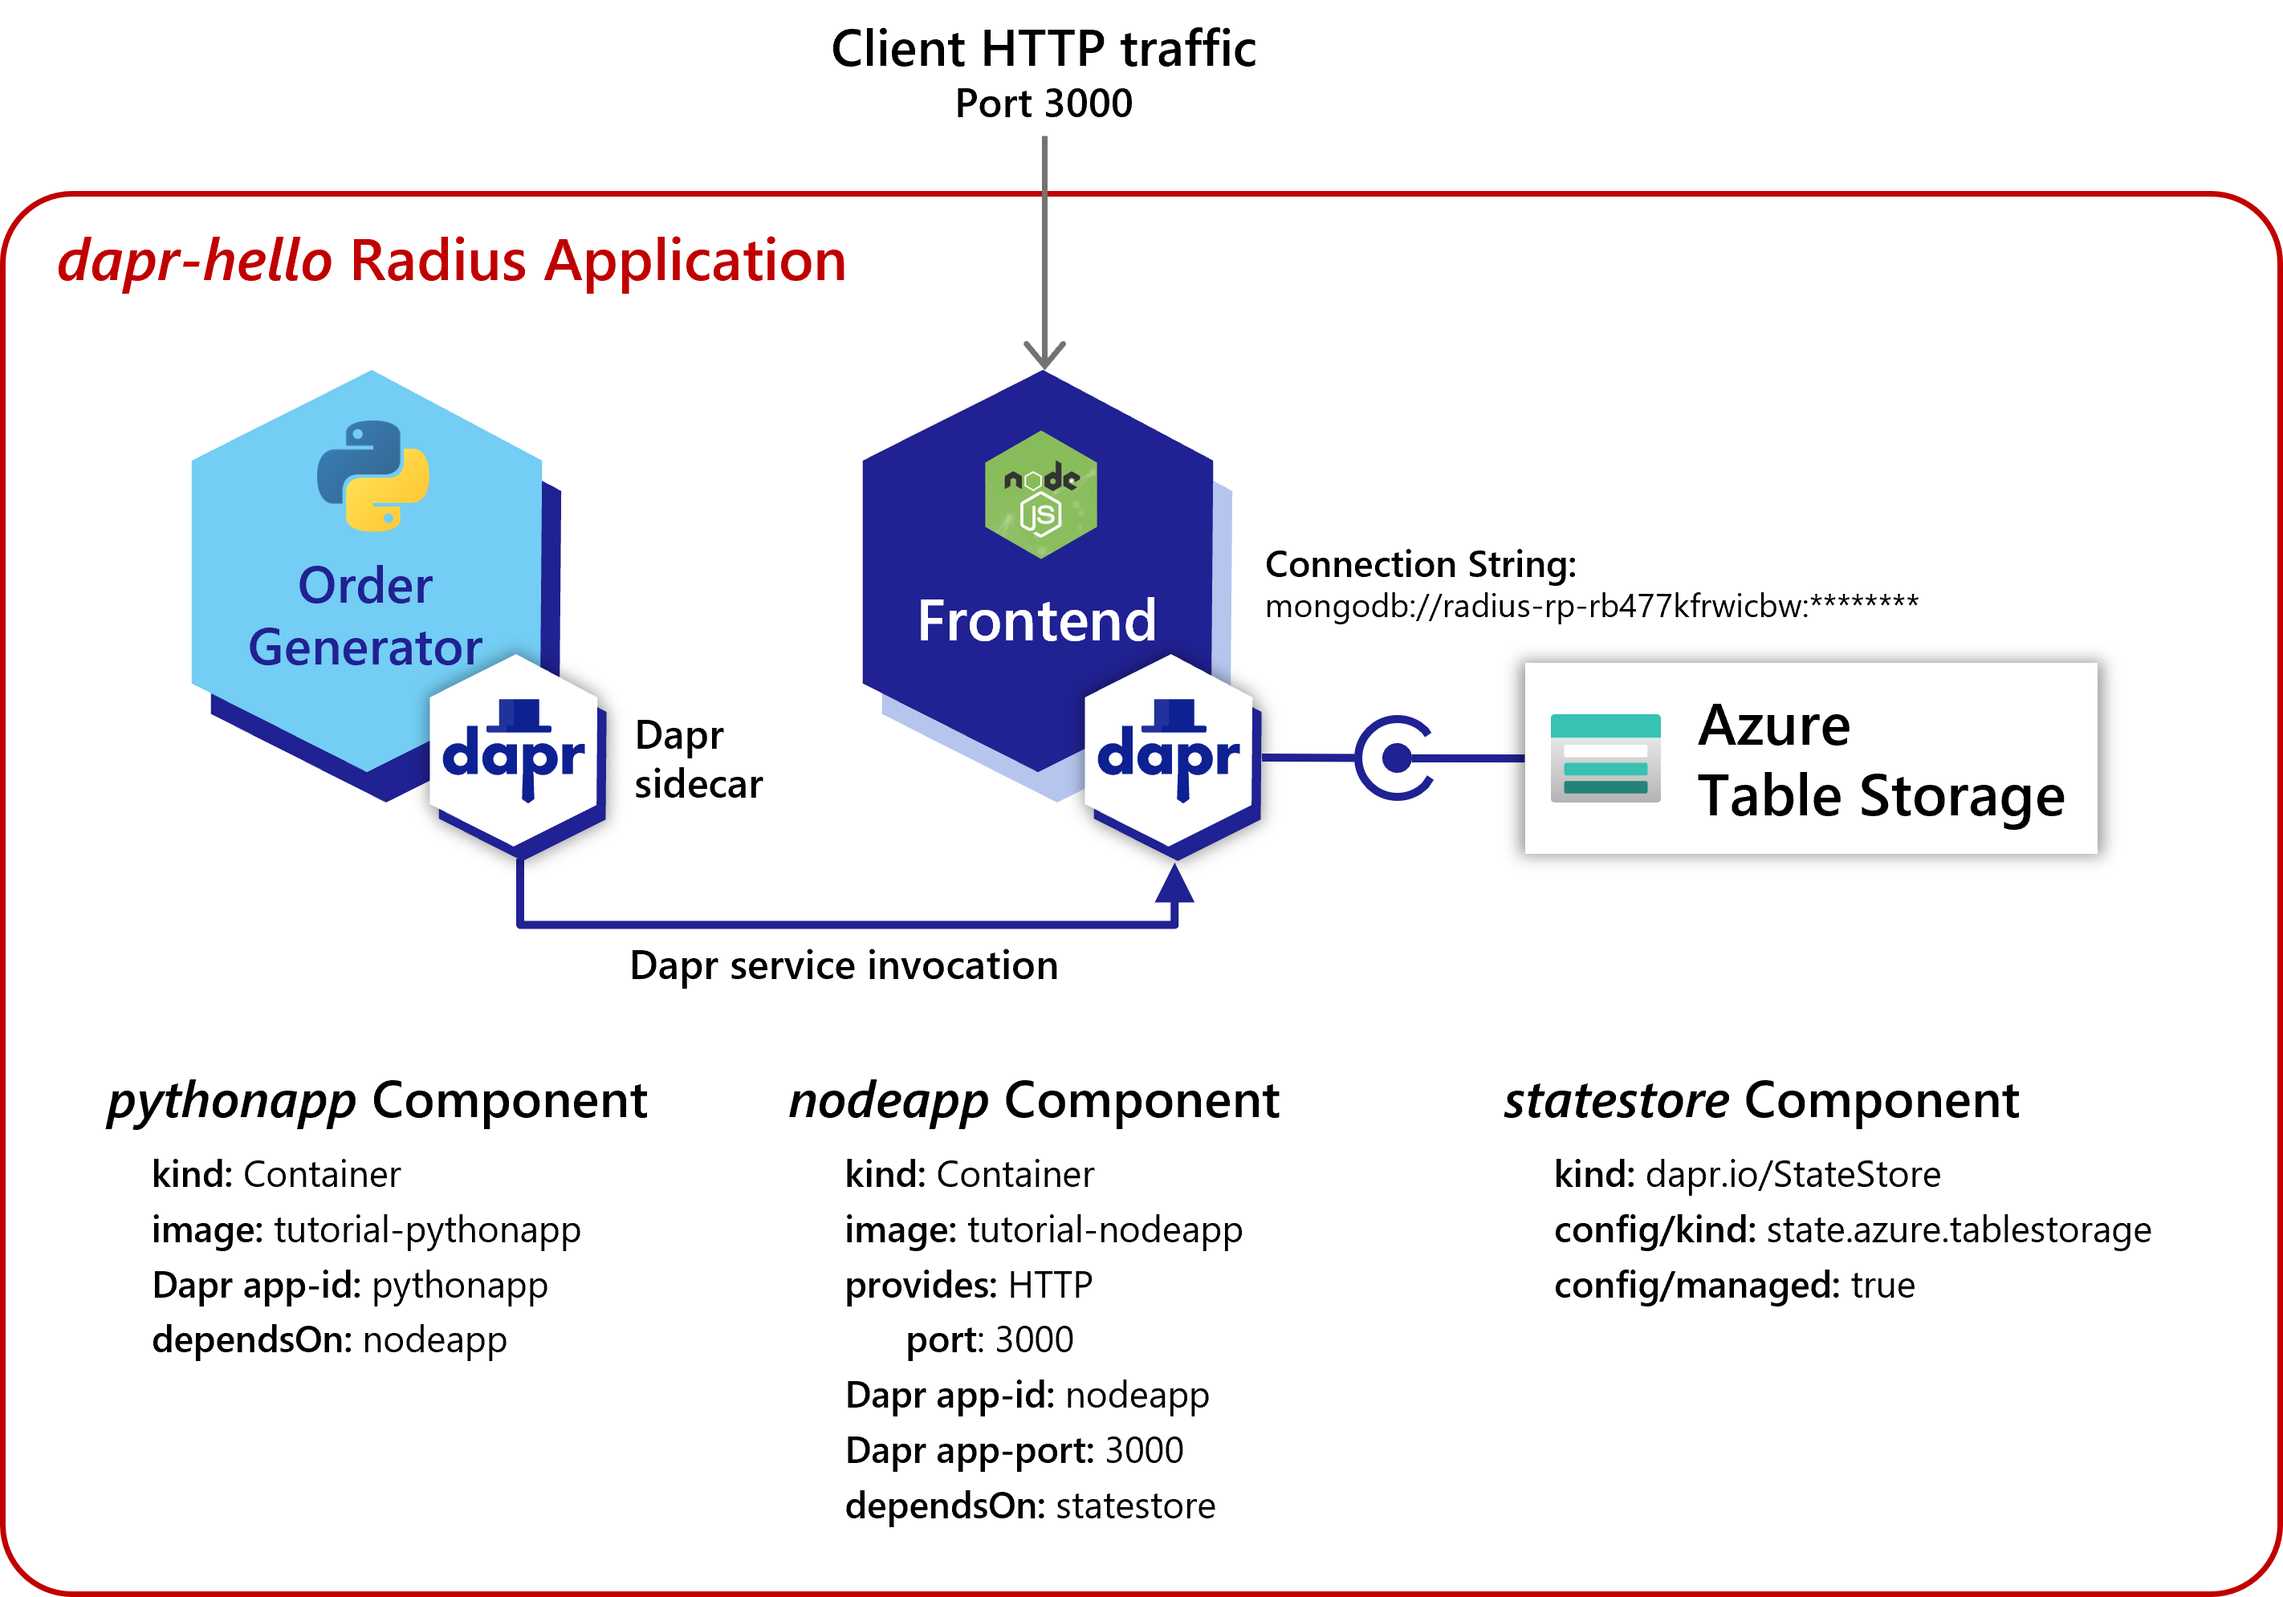
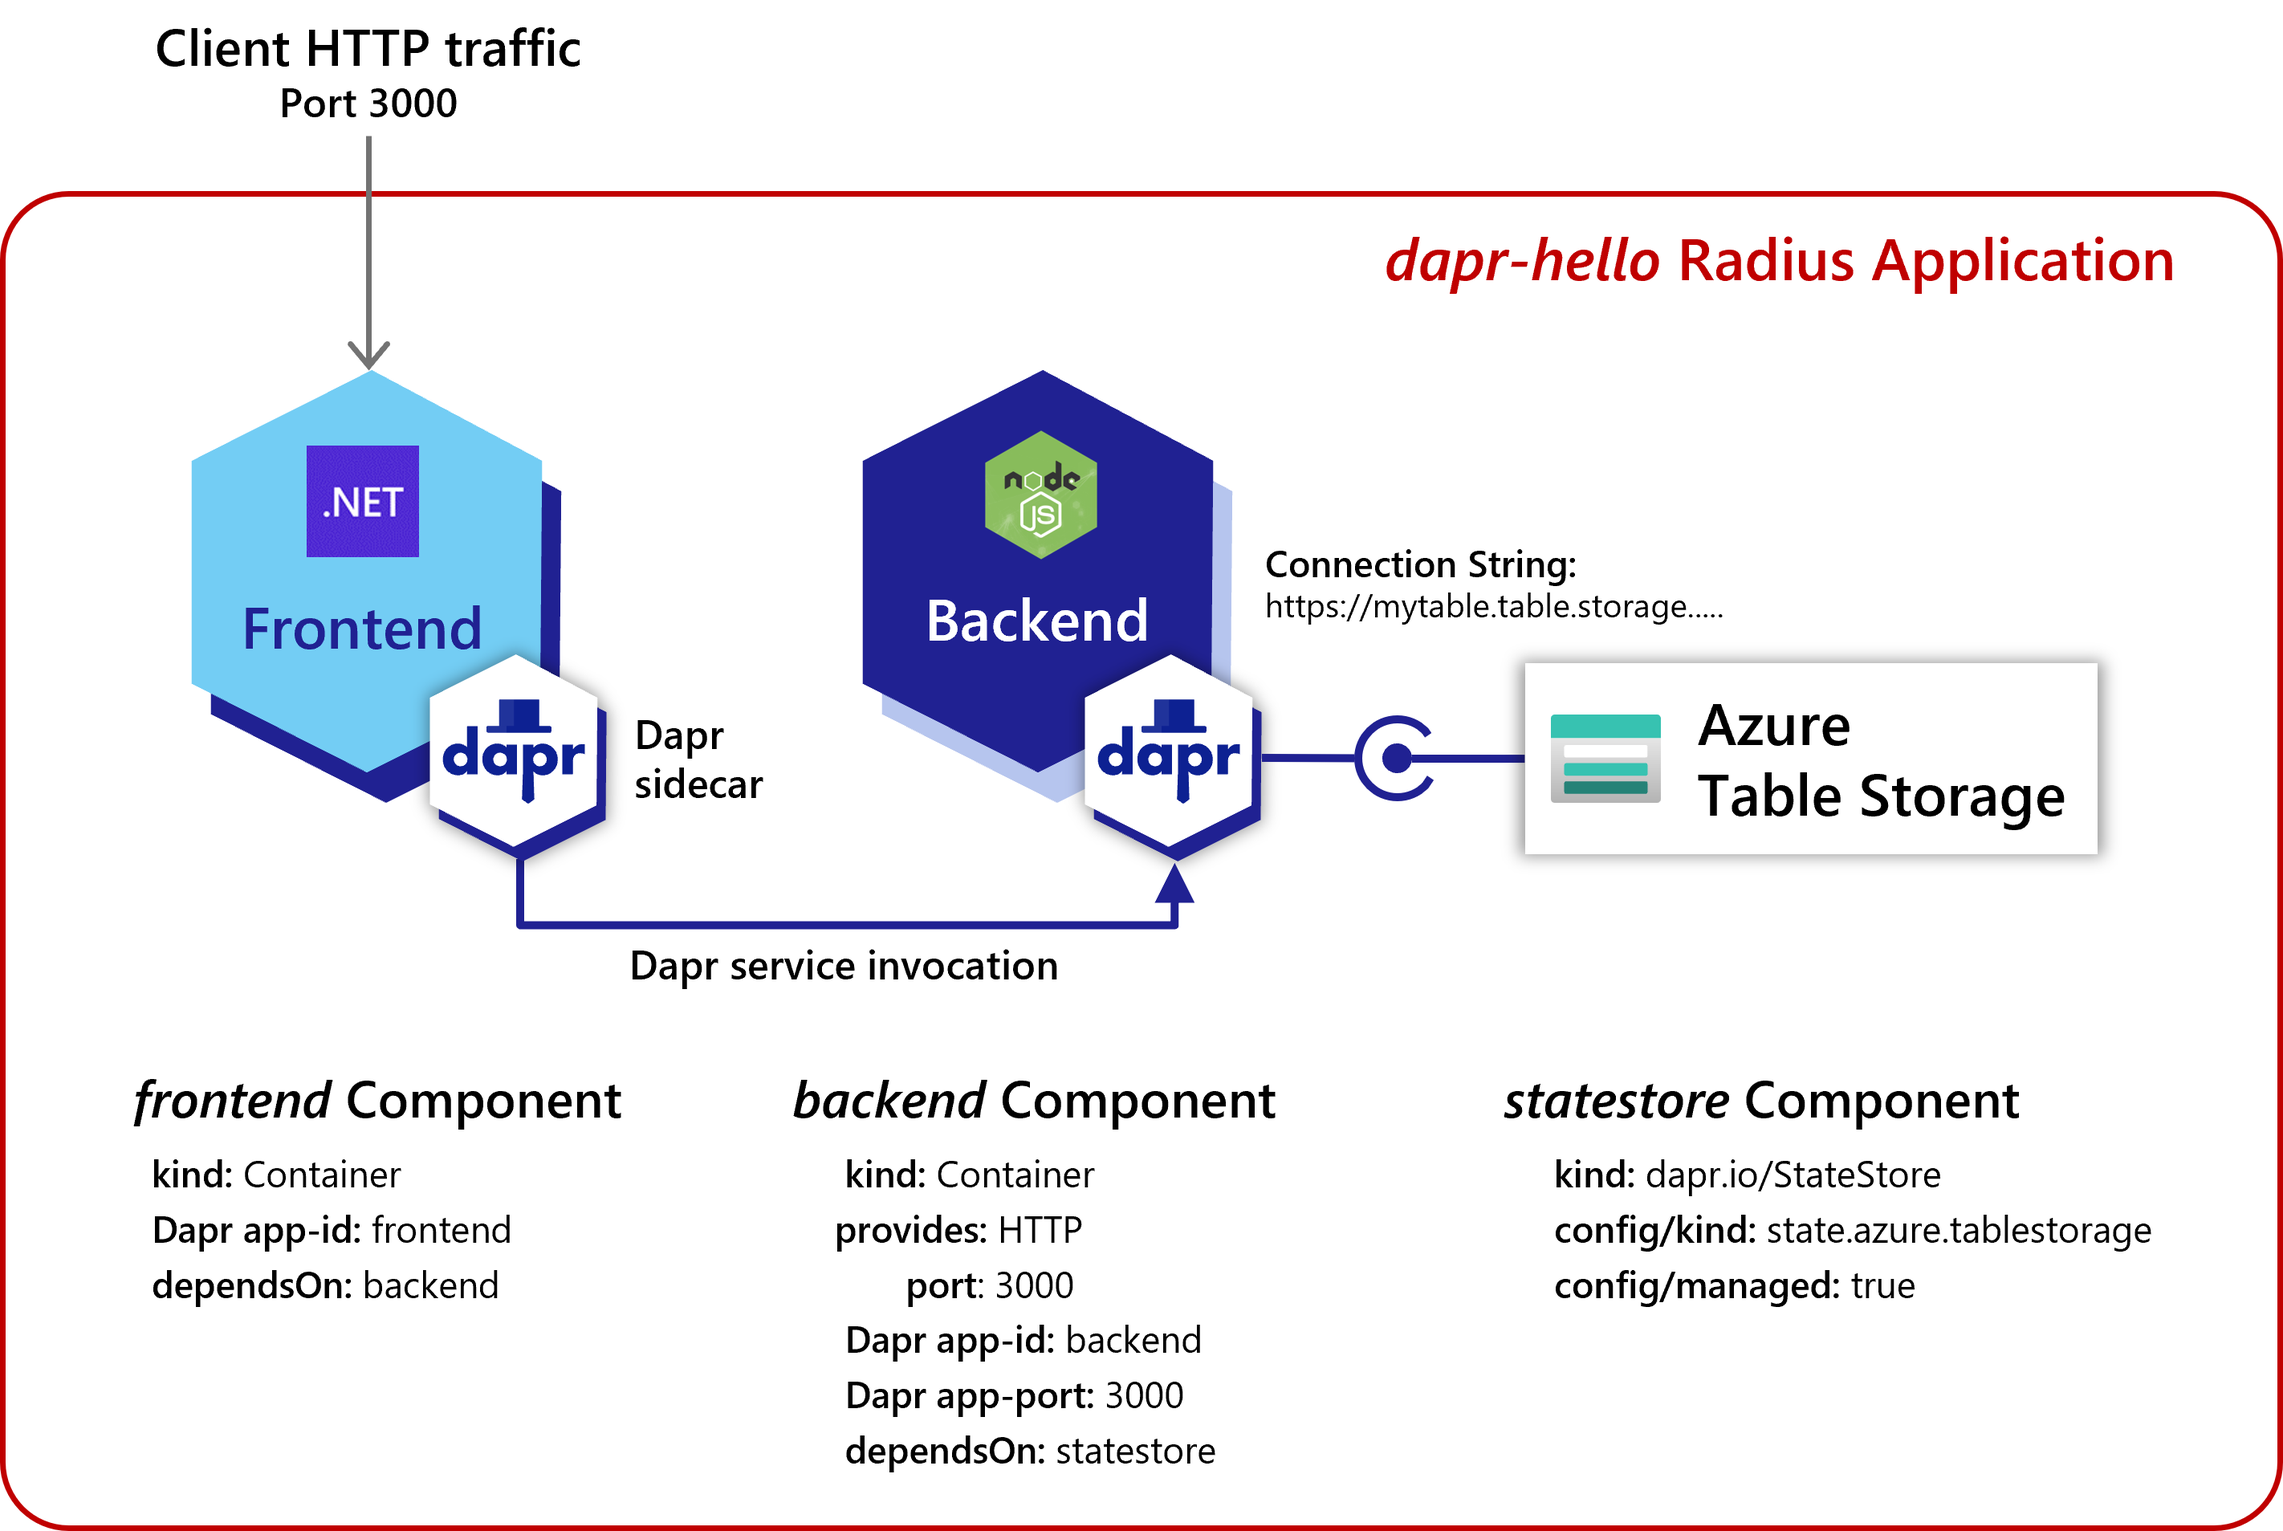
Update images

diff --git a/docs/content/getting-started/tutorial/dapr-microservices/dapr-microservices-overview/index.md b/docs/content/getting-started/tutorial/dapr-microservices/dapr-microservices-overview/index.md
@@ -14,9 +14,9 @@ In this tutorial you will be deploying an online store where you an order items:
 
 This Radius application will have three [Components]({{< ref components-model.md >}}):
 
-- A UI for users to place orders written with .NET Blazor ("frontend")
-- An backend order processing microservice written in Node.JS ("nodeapp")
-- A Dapr state store used to store the orders ("statestore")
+- A UI for users to place orders written with .NET Blazor (`frontend`)
+- A backend order processing microservice written in Node.JS (`backend`)
+- A Dapr state store used to store the orders (`statestore`)
 
 ### Frontend
 
@@ -26,13 +26,15 @@ The user-facing UI app (`frontend`) offers a portal for users to place orders. U
 
 ### Backend
 
-The order processing microservice (`nodeapp`) accepts HTTP requests to create or display orders. It accepts HTTP requests on two endpoints: `GET /order` and `POST /neworder`.
+The order processing microservice (`backend`) accepts HTTP requests to create or display orders. It accepts HTTP requests on two endpoints: `GET /order` and `POST /neworder`.
 
-<img src="./backend.png" alt="A diagram of the nodeapp order processing service" width=700 />
+<img src="./backend.png" alt="A diagram of the backend order processing service" width=600 />
 
 ### Statestore
 
 The Dapr state store (`statestore`) stores information about orders. It could be any compatible [Dapr state store](https://docs.dapr.io/developing-applications/building-blocks/state-management/state-management-overview/). In this tutorial we will use Azure Table Storage.
+
+<img src="./statestore.png" alt="A diagram of the Dapr state store" width=400 />
 
 ## Bindings
 
